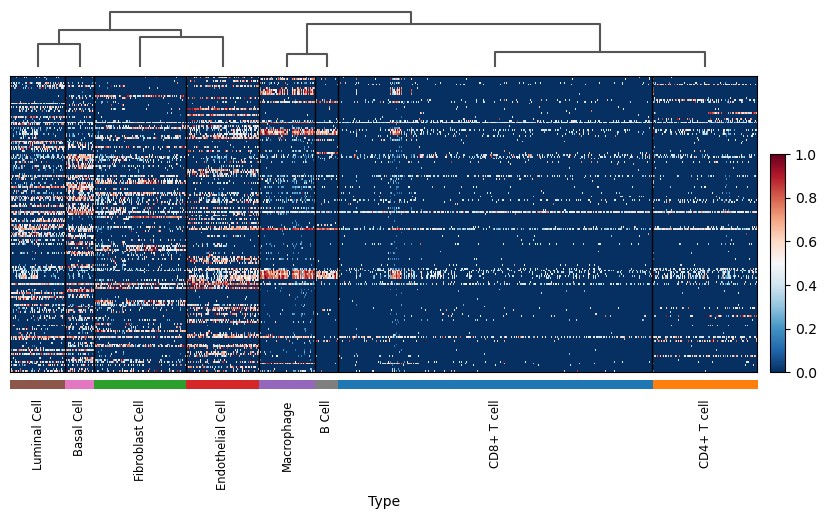
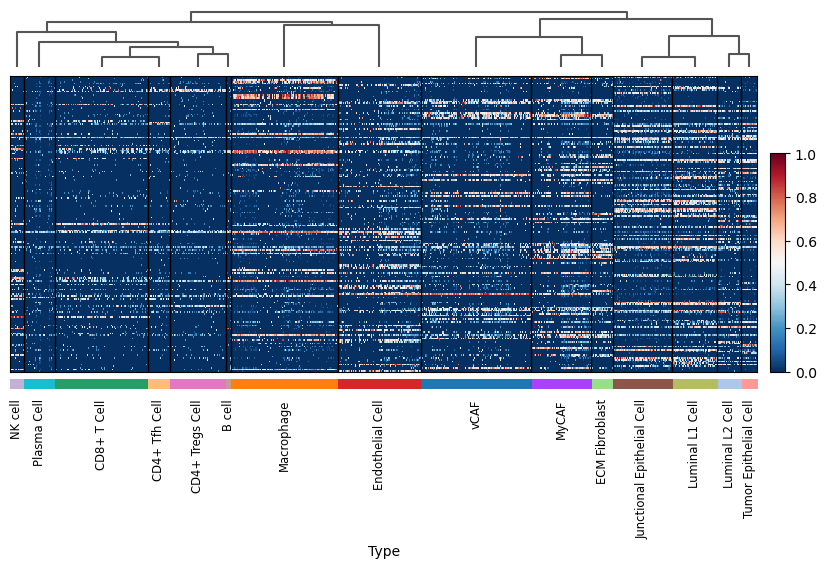
commit

Changed region(s): [[0.0, 0.0, 0.9988, 0.9557], [0.454, 0.9557, 0.4843, 0.9865]]

diff --git a/README.md b/README.md
@@ -70,7 +70,7 @@ Single-cell sequencing is a useful technique to study gene regulation of individ
 
 ## III. Results
 
-<i>Single-cell analysis</i>.  <i>scRNA-seq</i>.  A total of 10 primary breast tumor samples were initially processed, consisting of 919 cells and 29,733 genes.  Top 2,000 highly variable genes were selected for further analysis.  Distinct cell types were identified by Leiden clustering.  There were 8 cell type clusters, namely CD8+ T cell, CD4+ T cell, fibroblast cell, endothelial cell, macrophage, luminal cell, basal cell, and B cell (Figure 3A).  Biomarker genes were used to verify the present cluster identity (Figure 3B): CD3E was used as a pan-biomarker for T cells; CD8A for CD8+ T cells; CD4 for CD4+ T cells; FCGR3A for macrophages; MS4A1 for B cells; PECAM1 for endothelial cells; COL1A2 for fibroblast cells; KRT5 for basal cells; and CLDN4 for luminal cells.  By profiling expression of highly-variable differentially expressed 3'UTR APA genes, specific patterns were observed in different cell types (Figure 3C).  For example, TIMP3, an inhibitor that prevents enzymes from break down extracellular matrix, displays a such distinct pattern (Figure 3D).  TIMP3 is highly activated in fibroblast and endothelial cells in breast cancer microenvironment; but downregulated in luminal cells which may contribute to enhanced tumor proliferation; expression was low in macrophages while nearly absent in lymphocytes (Bhola <i>et al.</i>, 2025).  <i>scATAC-seq</i>.  A MCF-7 cell line sample was initially processed with 1,588 cells and 15,963 genes.  Top 2,000 high variable genes was analyzed.  ZNF217 (Littlepage <i>et al.</i>, 2012) were selected as a biomarker for MCF-7 (Figure 4A).  Noticeably, there were some cells there were low-expressed or not labeled by the marker genes.  The likely explanation may be due to the additon of DMSO which had been reported to cause changes in cell state in response to stress (Tuncer <i>et al.</i>, 2018; Sangweni <i>et al.</i>, 2021).  Expression pattern of the MCF-7 cell line was displayed in Figure 4B.  Among the significantly expressed 3′UTR APA genes, SULF2 and ZNF217 were reportedly exhibited high expression levels (Zhu <i>et al.</i>, 2015; Rangel <i>et al.</i>, 2024; Littlepage <i>et al.</i>, 2012).
+<i>Single-cell analysis</i>.  <i>scRNA-seq</i>.  A total of 10 primary breast tumor samples were initially processed, consisting of 11,375 cells and 58,870 genes.  Top 2,000 highly variable genes were selected for further analysis.  Distinct cell types were identified by Leiden clustering.  There were 15 cell type clusters identified, namely CD8+ T cell, CD4+ follicular helper (Tfh) cell, CD4+ regulatory T (Tregs) cell, extracelluar matrix (ECM) fibroblast, myofibroblastic cancer-associated fibroblast (myCAF), vascular cancer-assoicated fibroblast (vCAF), endothelial cell, junctional epithelial cell, luminal L1 cell, luminal L2 cell, tumor epithelial cell, plasma cell, macrophage, NK cell, and B cell (Figure 3A).  Biomarker genes were used to verify the present cluster identity (Figure 3B, 3C, 3D): CD3E was used as a pan-biomarker for T cells; CD8A for CD8+ T cells; CXCL13 for CD4+ Tfh cells; FOXP3 for CD4+ Tregs cells; NCAM1 for natural killer (NB) cells; CD68 for macrophages; MS4A1 for B cells; TNFRSF17 for plasma cells; PECAM1 for endothelial cells; COL1A1 was used as a pan-biomarker for fibroblast cells; PDGFRA for ECM fibroblasts; POSTN for MyCAFs; RGS5 for vCAFs; EPCAM was used as a pan-biomarker for epithelial cells; and SCGB2A2 for luminal L1 cells; KRT23 for luminal L2 cells; MLLT4 for junctional epithelial cells; DKK1 for tumor epithelial cells.  By profiling expression of highly-variable differentially expressed 3'UTR APA genes, specific patterns were observed in different cell types (Figure 3E).  For example, TIMP3, an inhibitor that prevents enzymes from break down extracellular matrix, displays a such distinct pattern (Figure 3F).  TIMP3 is mostly expressed in fibroblasts, endothelial, and epithelial cells; but downregulated in luminal cells and tumor epithelial cells; expression was low or nearly absent in lymphocytes and others (Bhola <i>et al.</i>, 2025).  <i>scATAC-seq</i>.  A MCF-7 cell line sample was initially processed with 1,588 cells and 15,963 genes.  Top 2,000 high variable genes was analyzed.  ZNF217 (Littlepage <i>et al.</i>, 2012) were selected as a biomarker for MCF-7 (Figure 4A).  Noticeably, there were some cells there were low-expressed or not labeled by the marker genes.  The likely explanation may be due to the additon of DMSO which had been reported to cause changes in cell state in response to stress (Tuncer <i>et al.</i>, 2018; Sangweni <i>et al.</i>, 2021).  Expression pattern of the MCF-7 cell line was displayed in Figure 4B.  Among the significantly expressed 3′UTR APA genes, SULF2 and ZNF217 showed high expression levels (Zhu <i>et al.</i>, 2015; Rangel <i>et al.</i>, 2024; Littlepage <i>et al.</i>, 2012).
 
 
 <br>
@@ -85,20 +85,27 @@ Interactive UMAP plot: https://wcjohnchen.shinyapps.io/UMAP_SCRNASEQ/
 <br>
 
 
-**(B)** Cell type identification by biomarker genes: CD3E (T cells), CD8A (CD8+ T cell), CD4 (CD4+ T cell), FCGR3A (macrophage), MS4A1 (B cell), PECAM1 (endothelial cell), COL1A2 (fibroblast cell), KRT5 (basal cell), and CLDN4 (luminal cell).
+**(B)** Cell type identification by biomarker genes: CD68 (macrophage), CD3E (T cells), FOXP3 (CD4+ Tregs cell), CXCL13 (CD4+ Tfh cell), CD8A (CD8+ T cell), NCAM1 (NK cell), MS4A1 (B cell), and TNFRSF17 (plasma cell).
 
-<img src="figure/biomarkers_scrnaseq_1.png" style="width: 120%; height: 120%;">
-
-
-<img src="figure/biomarkers_scrnaseq_2.png" style="width: 120%; height: 120%;">
+<img src="figure/biomarkers_scrnaseq_i.png" style="width: 120%; height: 120%;">
 
 
-**(C)** Heatmap of highly-variable differentially expressed 3'UTR APA gene expression profile (156 genes) of identified cell types.  Both Wilcoxon (adjusted <i>p</i>-value < 0.05 and absolute value of log2 fold change > 0.05) and SCVI DE tests (false discovery rate (FDR) < 0.05 and mean of absolute value of log2 fold change (lfc_mean) > 0.5) were performed for each gene across clusters.  Only statistically significant genes that were found in common from the two tests were used.  The heatmap is based on hierarchical clustering.
+**(C)** Cell type identification by biomarker genes: PECAM1 (endothelial cell), COL1A1 (fibroblast cells), PDGFRA (ECM fibroblast), POSTN (myCAF), and RGS5 (vCAF).
+
+<img src="figure/biomarkers_scrnaseq_ii.png" style="width: 120%; height: 120%;">
+
+
+**(D)** Cell type identification by biomarker genes: EPCAM (epithelial cell), SCGB2A2 (luminal L1 cell), KRT23 (luminal L2 cell), MLLT4 (junctional epithelial cell), and DKK1 (tumor epithelial cell).
+
+<img src="figure/biomarkers_scrnaseq_iii.png" style="width: 120%; height: 120%;">
+
+
+**(E)** Heatmap of highly-variable differentially expressed 3'UTR APA gene expression profile (181 genes) of identified cell types.  Both Wilcoxon (adjusted <i>p</i>-value < 0.05 and absolute value of log2 fold change > 0.05) and SCVI DE tests (false discovery rate (FDR) < 0.05 and mean of absolute value of log2 fold change (lfc_mean) > 0.5) were performed for each gene across clusters.  Only statistically significant genes that were found in common from the two tests were used.  The heatmap is based on hierarchical clustering.
  
 <img src="figure/heatmap_stats_scrnaseq.png" style="width: 100%; height: 100%;">
 
 
-**(D)** TIMP3 expression in cell types of breast cancer microenvironment.
+**(F)** TIMP3 expression in cell types of breast cancer microenvironment.
 
 <img src="figure/violin_TIMP3.png" style="width: 50%; height: 50%;">
 
